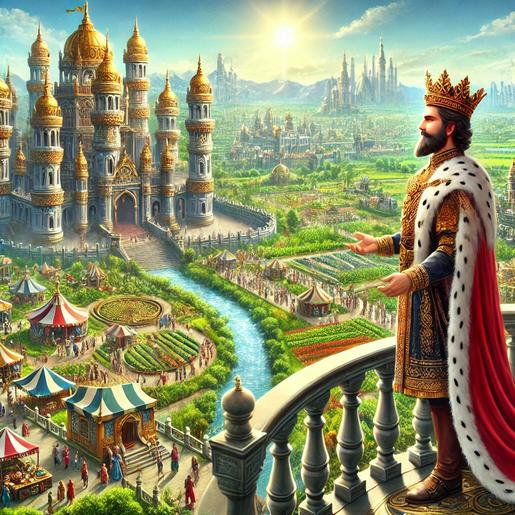
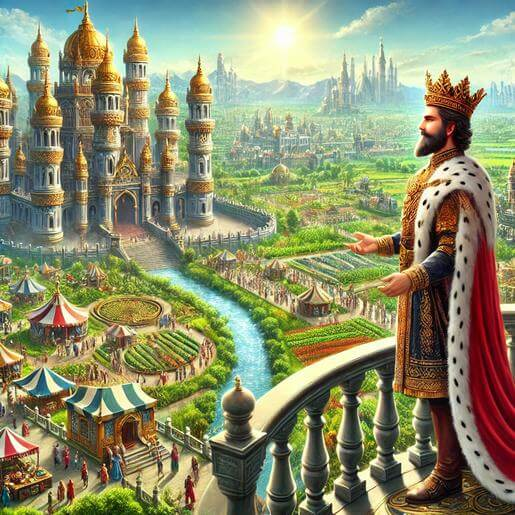
Commit 23/05

diff --git a/words/words_10.html b/words/words_10.html
@@ -202,7 +202,7 @@
 				</ul>
 			</p>
 			
-			<img src="../resources/img/words_10/IMG06.jpg" alt="Universe">
+			<img src="../resources/img/words_10/IMG06.avif" alt="Universe">
 			
 			<p class="normal-text">
 				He compares it to:
@@ -250,51 +250,20 @@
 			</p>
 			
 			<div class="quote">
-				<p class="italic-text">the order, mercy, justice, beauty, and continual renewal seen in creation all point toward the reality of resurrection and eternal life.</p>
+				<p class="italic-text">The order, mercy, justice, beauty, and continual renewal seen in creation all point toward the reality of resurrection and eternal life.</p>
 			</div>
 			
 			<br>
 			
 			<img src="../resources/img/words_10/IMG07.jpg" alt="Summary">
+			
+			<br>
 
-			<h2>The 29 Truths</h2>
-
-			<div class="truth"><b>1.</b> Dominion and Sovereignty</div>
-			<div class="truth"><b>2.</b> Generosity and Mercy</div>
-			<div class="truth"><b>3.</b> Wisdom and Purpose</div>
-			<div class="truth"><b>4.</b> Justice and Balance</div>
-			<div class="truth"><b>5.</b> Compassion and Beauty</div>
-			<div class="truth"><b>6.</b> Magnificence and Eternity</div>
-			<div class="truth"><b>7.</b> Preservation</div>
-			<div class="truth"><b>8.</b> Promise and Threat</div>
-			<div class="truth"><b>9.</b> Life</div>
-			<div class="truth"><b>10.</b> Human Nature</div>
-			<div class="truth"><b>11.</b> Prophethood</div>
-			<div class="truth"><b>12.</b> Revelation</div>
-			<div class="truth"><b>13.</b> The Qur’an</div>
-			<div class="truth"><b>14.</b> Conscience</div>
-			<div class="truth"><b>15.</b> Divine Power</div>
-			<div class="truth"><b>16.</b> Order</div>
-			<div class="truth"><b>17.</b> Spring</div>
-			<div class="truth"><b>18.</b> Easy Re-Creation</div>
-			<div class="truth"><b>19.</b> Divine Attention</div>
-			<div class="truth"><b>20.</b> Universal Cooperation</div>
-			<div class="truth"><b>21.</b> Dependence</div>
-			<div class="truth"><b>22.</b> Spirit</div>
-			<div class="truth"><b>23.</b> Memory and Identity</div>
-			<div class="truth"><b>24.</b> Divine Knowledge</div>
-			<div class="truth"><b>25.</b> Worship</div>
-			<div class="truth"><b>26.</b> Human Importance</div>
-			<div class="truth"><b>27.</b> Worldly Impermanence</div>
-			<div class="truth"><b>28.</b> Happiness and Misery</div>
-			<div class="truth"><b>29.</b> Resurrection Itself</div>
-
-			<h2>Overall Structure</h2>
-
-			<p>
-			The truths form a cumulative argument:
-			nature, conscience, revelation, divine justice, and human existence all point toward resurrection and eternal life.
-			</p>
+			<h3>The 29 Truths</h3>
+			
+			<img src="../resources/img/words_10/IMG08.png" alt="29 Thruths">
+			
+			<br>
 			
         </section>
     
